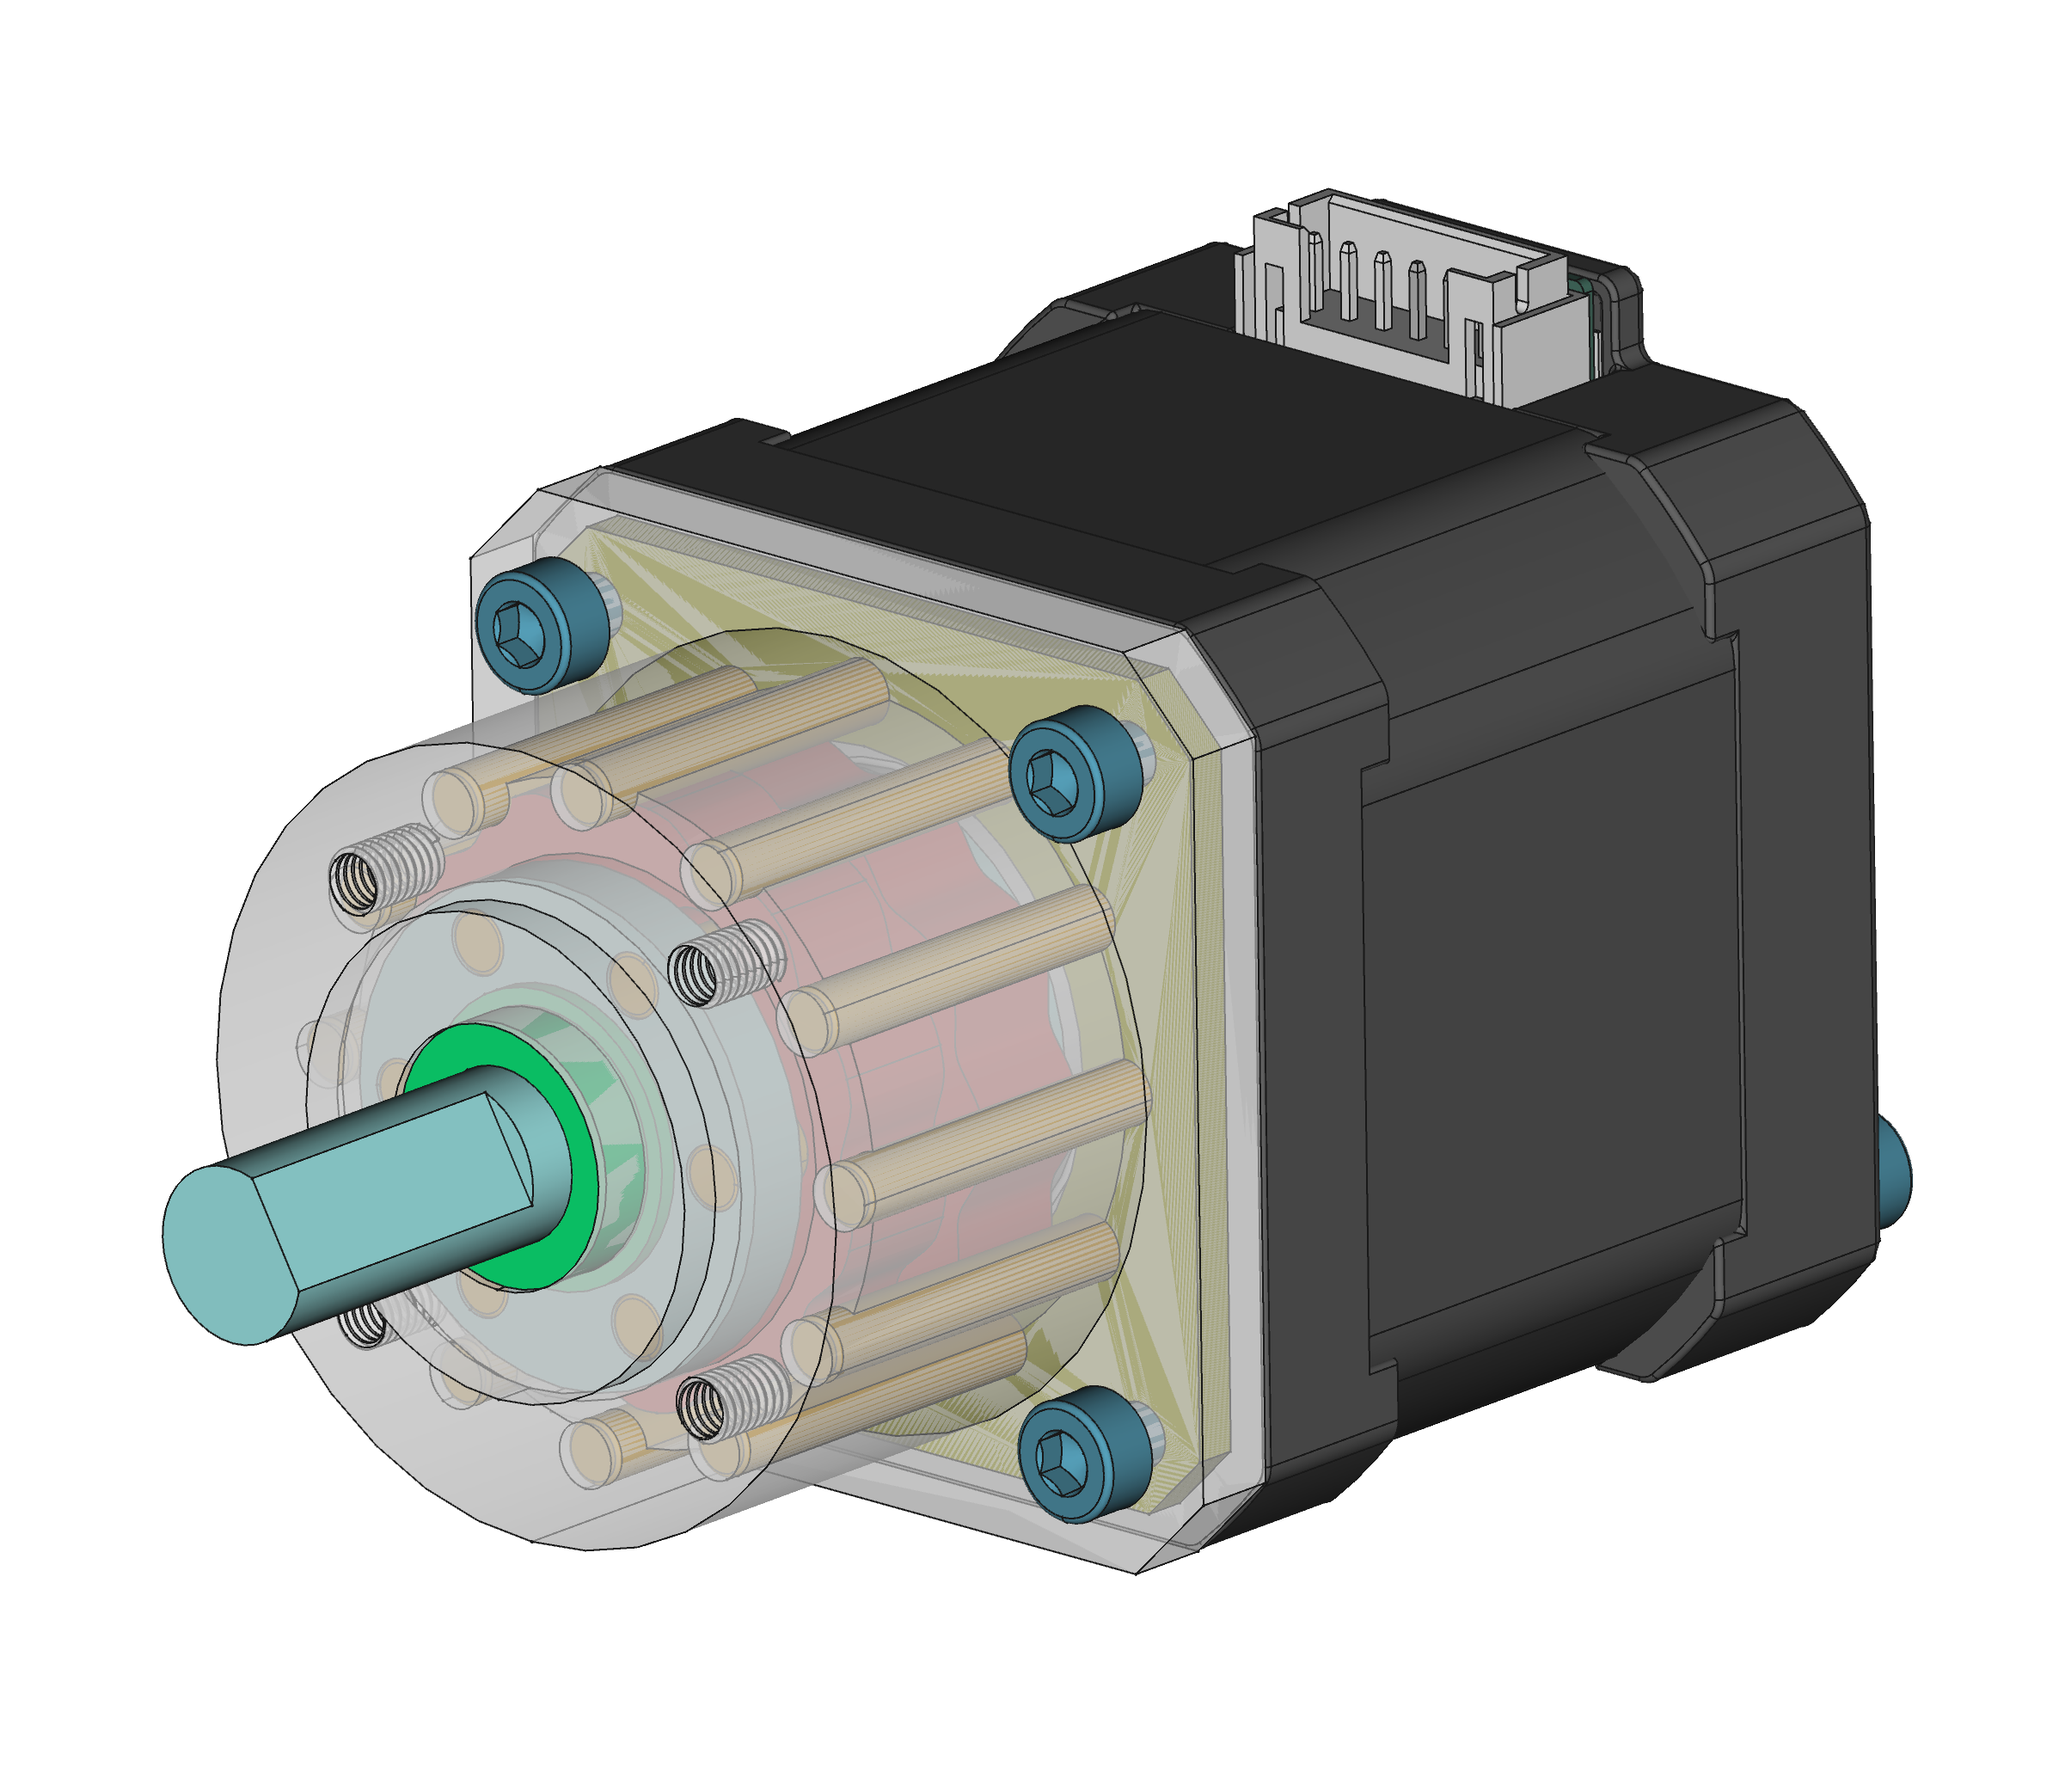
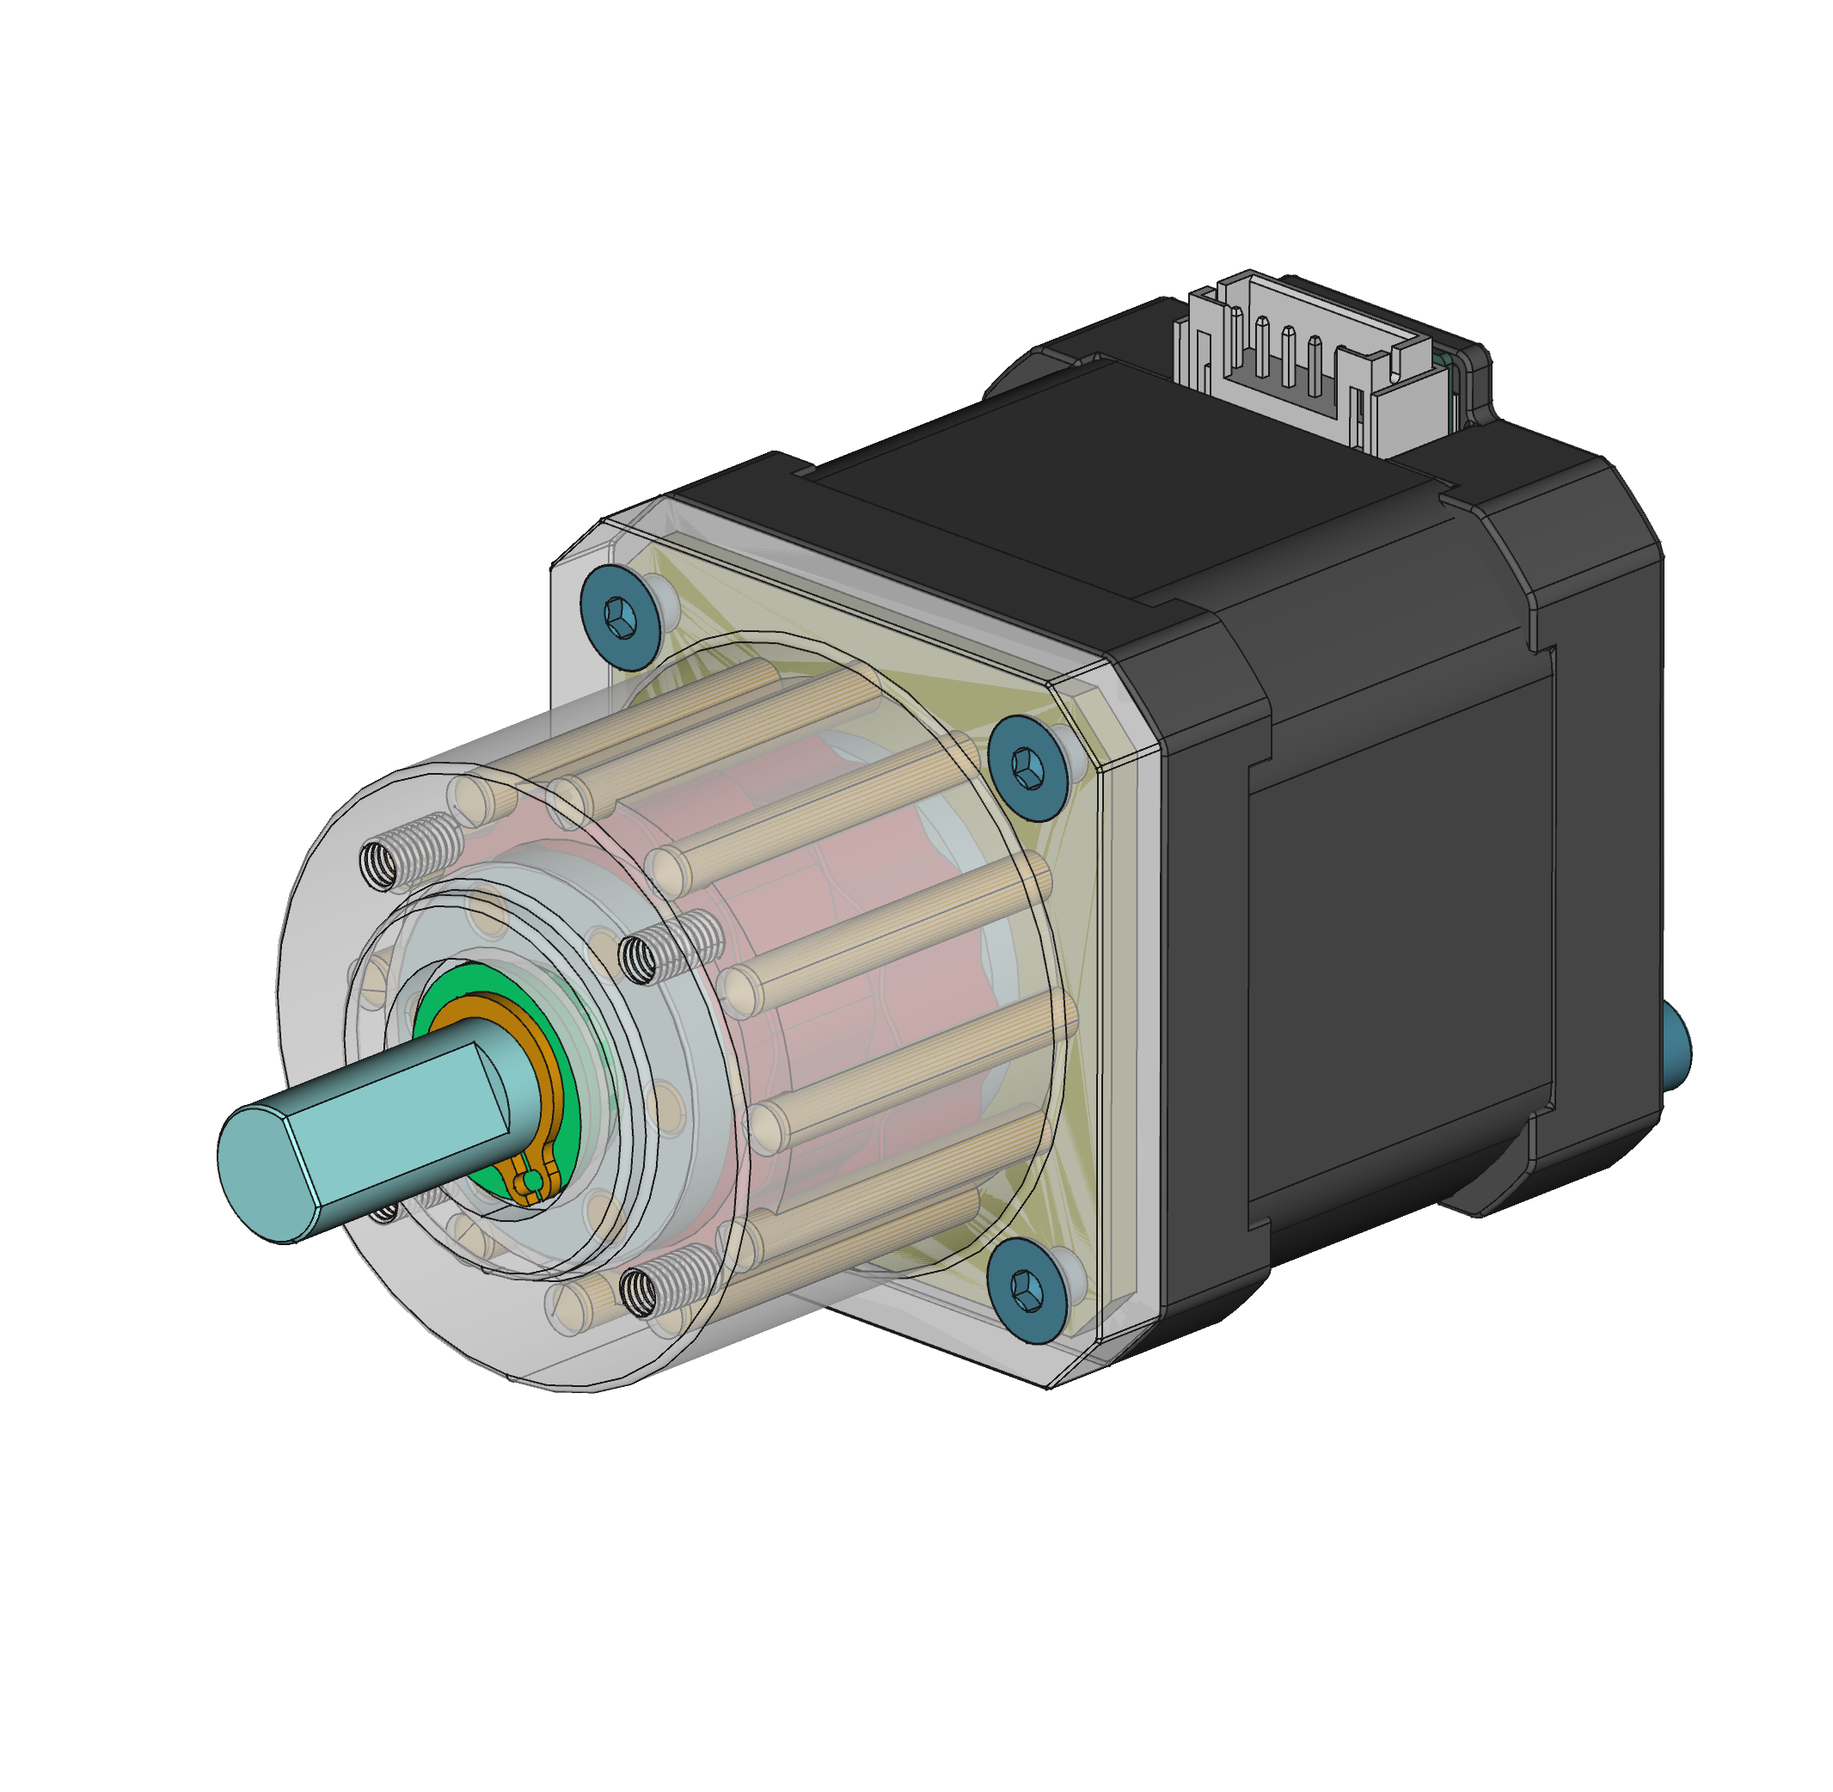
Update README

Changed region(s): [[0.0619, 0.0936, 0.9287, 0.8733]]

diff --git a/README.md b/README.md
@@ -1,9 +1,9 @@
 # Cycloidal Drive for NEMA17 Stepper Motor 
 
-+ 240915 Update design of Ratio 11:1 for NEMA17 22mm shaft
-    + Cycloidal disk height 8mm 
-    + Rollers 3x25mm
-    + Total height of the reducer 30mm 
++ 240915 Ratio 11:1 update for NEMA17 22mm shaft
+    + cycloidal disk height 8mm 
+    + rollers 3x25mm
+    + height of the reducer 30mm 
 + 240909 Revised for Ratio 11:1
 + 240908 Initial package of ratio 19:1 
 
@@ -32,7 +32,7 @@
 ## Parts 
 
 + Bearing: MF128ZZ x 5, Nominal d8D12H3.5 vs. measured 7.92x11.93x3.41mm 
-+ Roller: D3x20mm x (12+6), measured D2.93x19.70mm 
++ Roller: D3x25mm x (12+6), measured D2.93x24.70mm 
 
 ## Design Software 
 
